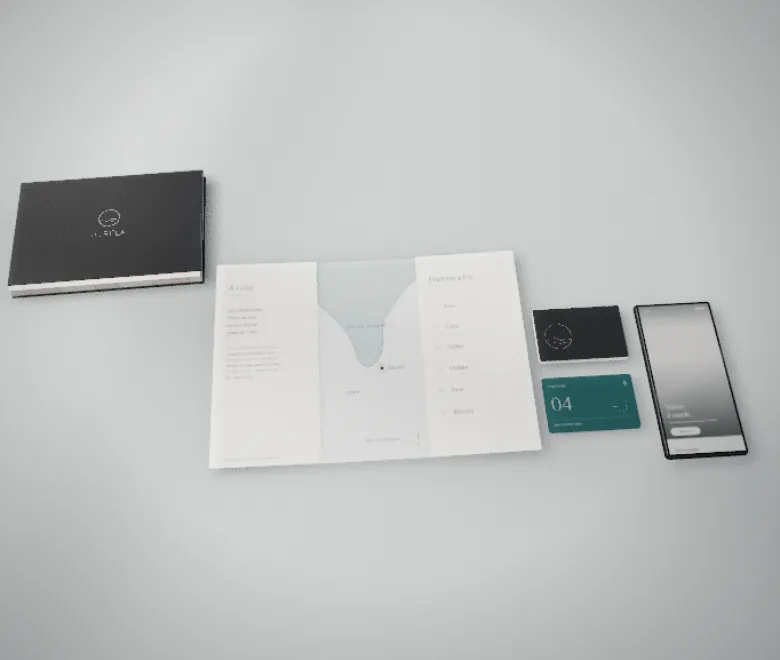
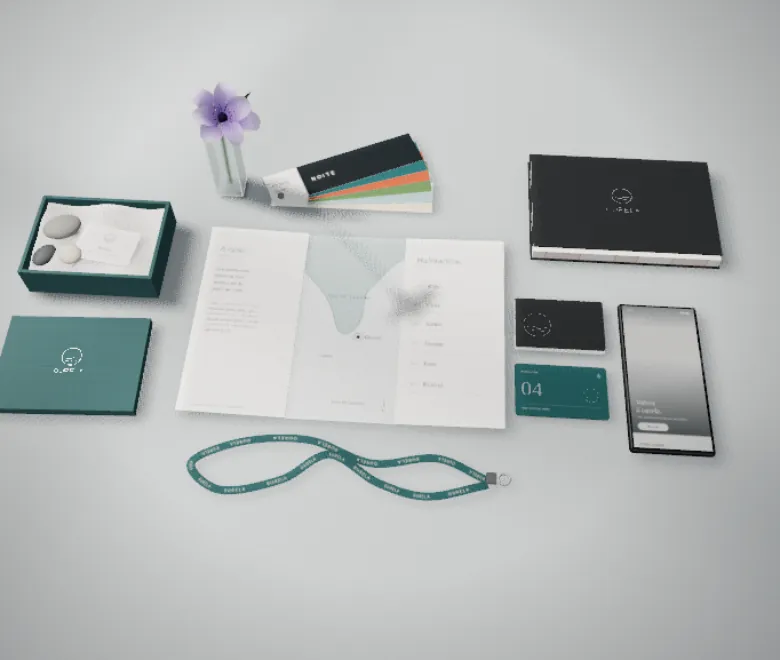
Identity scene: back to the full spread in soft window light (the pared-back version left it bare)
Claude-Session: https://claude.ai/code/session_01T6Qvjt4KiDzebSgFGHNPky

diff --git a/src/components/Identity/StationeryScene.tsx b/src/components/Identity/StationeryScene.tsx
@@ -317,8 +317,7 @@ async function build(host: HTMLDivElement, onReady: () => void, paused: { curren
     }
     g.add(contact(BW, BD));
     g.position.set(-2.55, 0, -0.55);
-    // (left off the table: fewer pieces, more air round each)
-    void g;
+    add(g);
     // the lid, set down beside it: a shallow cover in the same linen, the sign in silver on top
     const LW = BW + 0.04, LD = BD + 0.04, LH = 0.1;
     const lid = new THREE.Group();
@@ -344,7 +343,7 @@ async function build(host: HTMLDivElement, onReady: () => void, paused: { curren
     lid.add(lidTop, f, contact(LW, LD));
     lid.position.set(-2.55, 0, 0.74);
     lid.rotation.y = 0.04;
-    void lid;
+    add(lid);
   }
   // A notebook in Swiss binding: the sewn spine left bare, its signatures and coral thread on
   // show, the graphite cover glued only to the back, the sign in silver small on its front
@@ -413,9 +412,8 @@ async function build(host: HTMLDivElement, onReady: () => void, paused: { curren
     foil.rotation.x = -Math.PI / 2;
     foil.position.set(0, BOARD + NT + BOARD * 0.7 + 0.002, -SHORT / 2);
     g.add(block, backB, frontB, foil, contact(NW, ND));
-    // the left column to itself, balancing the cards and the phone on the right
-    g.position.set(-2.6, 0, -1.4);
-    g.rotation.y = 0.03;
+    // up level with the palette, clear above the cards
+    g.position.set(2.72, 0, -1.42);
     add(g);
   }
   // A card as it is cut: a thin slab with rounded corners, its faces printed edge to edge
@@ -590,7 +588,7 @@ async function build(host: HTMLDivElement, onReady: () => void, paused: { curren
     const g = new THREE.Group();
     g.add(strap, crimp, hook);
     g.position.set(0.0, 0, 1.62);
-    void g;
+    add(g);
   }
   // a fan of colour chips: the palette, as a printer's swatch book pinned at one end; it fans open
   const fanStrips: THREE.Group[] = [];
@@ -639,7 +637,7 @@ async function build(host: HTMLDivElement, onReady: () => void, paused: { curren
     fan.add(fs);
     // up top, to the right of the vase, above the brochure; it fans open away from it
     fan.position.set(-0.85, 0.008, -1.4);
-    void fan;
+    add(fan);
   }
   // A narrow, straight-sided bud vase in clear glass, and in it a single lilac flower: the one living thing on the table
   {
@@ -806,9 +804,8 @@ async function build(host: HTMLDivElement, onReady: () => void, paused: { curren
     }
     vase.scale.setScalar(1.25);
     // off centre, towards the left column, so the brochure keeps the middle to itself
-    vase.position.set(-1.05, 0, -1.6);
-    // (left off the table: fewer pieces, more air)
-    void vase;
+    vase.position.set(-1.4, 0, -1.55);
+    add(vase);
   }
   // The phone, lying beside the cards, with the house's site on its screen: the brand's digital side
   let screenMap: THREE.Texture;
@@ -1173,7 +1170,7 @@ async function build(host: HTMLDivElement, onReady: () => void, paused: { curren
     // the same width of table in every frame: framed for a wide one (30° at 16:9), a narrower frame (a phone)
     // draws back to keep the whole spread in view instead of cutting the pieces at its sides
     const WIDE = 16 / 9, half = Math.atan(Math.tan(THREE.MathUtils.degToRad(15)) * WIDE);
-    camera.fov = camera.aspect >= WIDE ? 30 : THREE.MathUtils.radToDeg(2 * Math.atan((Math.tan(half) * 1.04) / camera.aspect));
+    camera.fov = camera.aspect >= WIDE ? 30 : THREE.MathUtils.radToDeg(2 * Math.atan((Math.tan(half) * 0.93) / camera.aspect));
     camera.updateProjectionMatrix();
     renderer.setSize(w, h);
     composer.setSize(w, h);
@@ -1183,13 +1180,12 @@ async function build(host: HTMLDivElement, onReady: () => void, paused: { curren
   fit();
 
   // The camera drifts slowly over the table, so the foil catches and loses the light
-  const look = new THREE.Vector3(0.2, 0, -0.15);
+  const look = new THREE.Vector3(0.4, 0, 0.15);
   const reduced = window.matchMedia("(prefers-reduced-motion: reduce)").matches;
   const place = (t: number) => {
     // over the table, as a flat lay is shot, breathing only a little
     const a = Math.sin(t * 0.16) * 0.07, lift = Math.sin(t * 0.11) * 0.12;
-    // (a little nearer than with the full spread: fewer pieces, each given more of the frame)
-    camera.position.set(look.x + Math.sin(a) * 3.3, 7.0 + lift, look.z + Math.cos(a) * 3.3);
+    camera.position.set(look.x + Math.sin(a) * 4.4, 7.4 + lift, look.z + Math.cos(a) * 4.4);
     camera.lookAt(look);
   };
   place(0);
